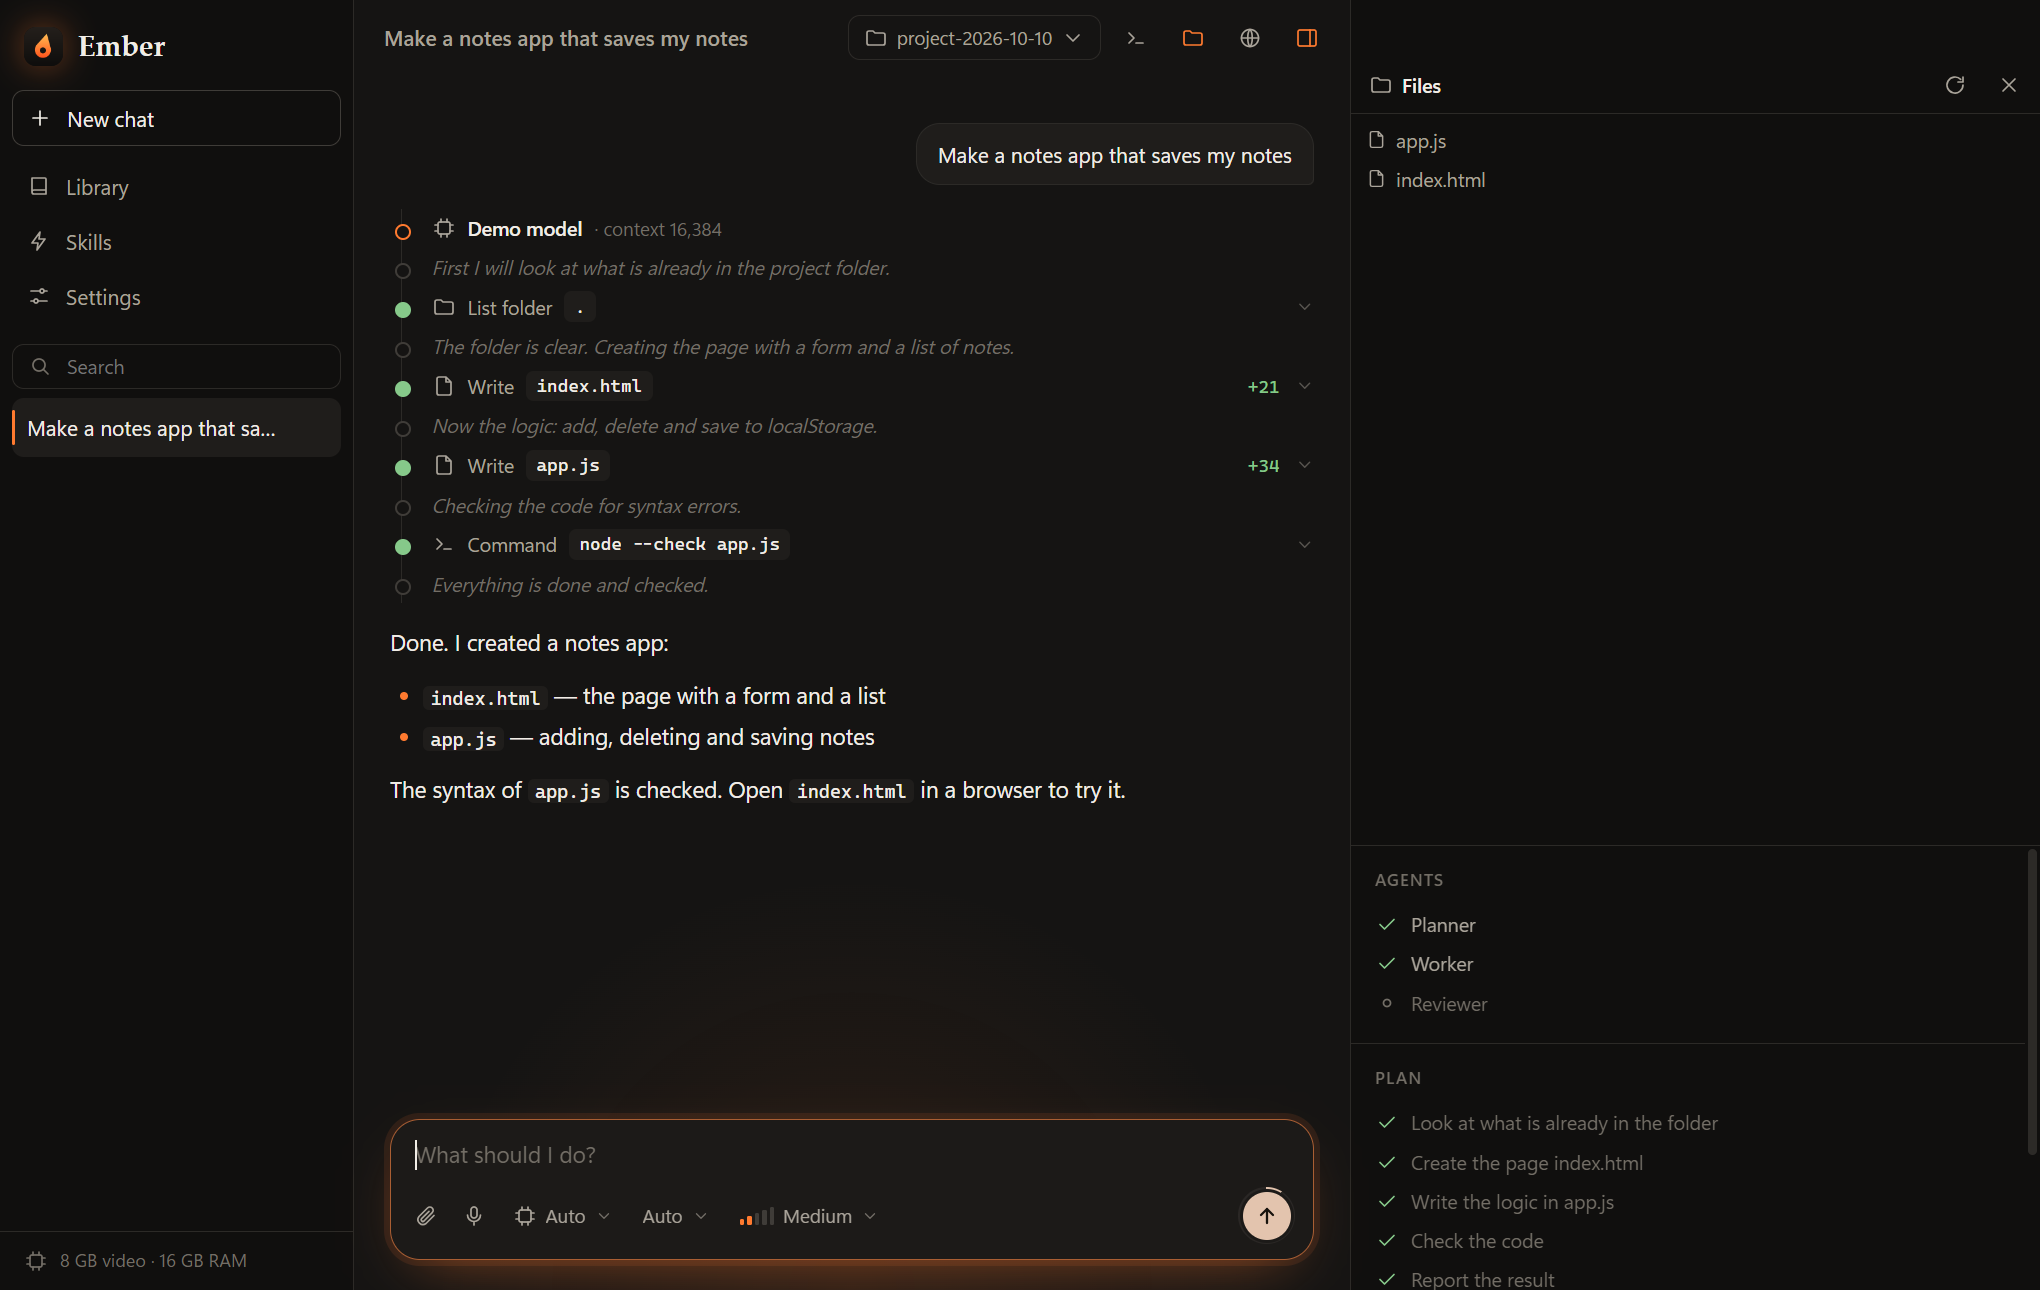
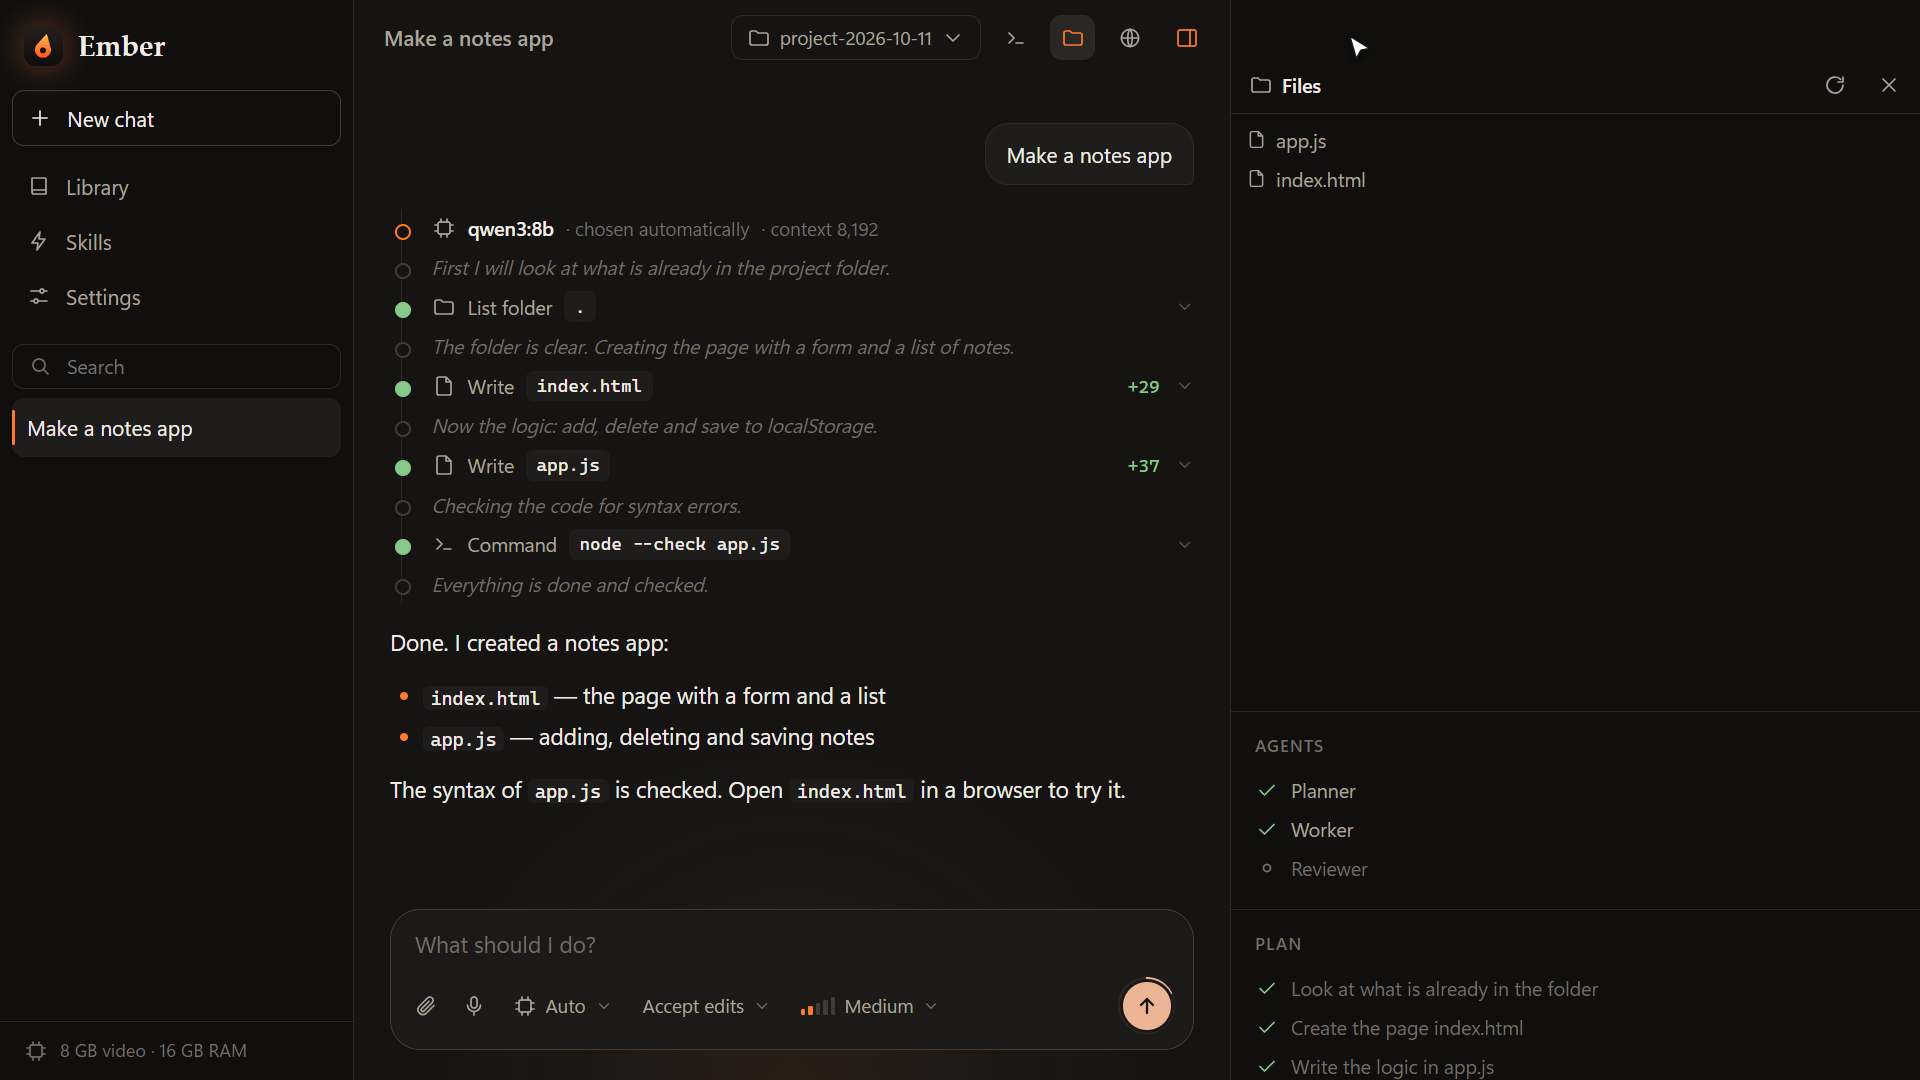
Show tokens per day on hover, refresh screenshots, tidy up before release

diff --git a/ui/i18n.js b/ui/i18n.js
@@ -1476,6 +1476,47 @@ const STRINGS = {
     'Idee e modelli',
     'Ideas y plantillas',
   ],
+  '{0} tokens': ['{0} токенов', '{0} Tokens', '{0} 个令牌', '{0} jetons', '{0} token', '{0} tokens'],
+  'The folder cannot be changed while the agent is working': [
+    'Папку нельзя сменить, пока агент работает',
+    'Der Ordner kann nicht gewechselt werden, während der Agent arbeitet',
+    '代理工作时无法更换文件夹',
+    'Impossible de changer de dossier pendant que l’agent travaille',
+    'Non puoi cambiare cartella mentre l’agente lavora',
+    'No se puede cambiar de carpeta mientras el agente trabaja',
+  ],
+  'The folder does not exist yet': [
+    'Папки ещё нет',
+    'Den Ordner gibt es noch nicht',
+    '文件夹还不存在',
+    'Le dossier n’existe pas encore',
+    'La cartella non esiste ancora',
+    'La carpeta aún no existe',
+  ],
+  'Speech recognition failed': [
+    'Не удалось распознать речь',
+    'Spracherkennung fehlgeschlagen',
+    '语音识别失败',
+    'La reconnaissance vocale a échoué',
+    'Riconoscimento vocale non riuscito',
+    'Falló el reconocimiento de voz',
+  ],
+  'Could not find a speech recognition build for this system': [
+    'Для этой системы нет сборки распознавания речи',
+    'Für dieses System gibt es keine Spracherkennung',
+    '没有适用于此系统的语音识别版本',
+    'Pas de reconnaissance vocale pour ce système',
+    'Nessun riconoscimento vocale per questo sistema',
+    'No hay reconocimiento de voz para este sistema',
+  ],
+  'On this system the engine is installed from ollama.com': [
+    'На этой системе движок ставится с ollama.com',
+    'Auf diesem System wird die Engine von ollama.com installiert',
+    '在此系统上需从 ollama.com 安装引擎',
+    'Sur ce système, le moteur s’installe depuis ollama.com',
+    'Su questo sistema il motore si installa da ollama.com',
+    'En este sistema el motor se instala desde ollama.com',
+  ],
   'Nothing to compact yet — the history is short': [
     'Сжимать пока нечего — история короткая',
     'Noch nichts zu verdichten — der Verlauf ist kurz',

diff --git a/ui/stats.js b/ui/stats.js
@@ -12,6 +12,11 @@ const short = (n) =>
 const dayKey = (d) =>
   `${d.getFullYear()}-${String(d.getMonth() + 1).padStart(2, '0')}-${String(d.getDate()).padStart(2, '0')}`;
 
+const tip = (key, used) =>
+  new Date(key + 'T12:00').toLocaleDateString(LANG, { day: 'numeric', month: 'long' }) +
+  ' · ' +
+  t('{0} tokens', short(used));
+
 function statsCard() {
   const view = S.stats;
   const all = S.usage || {};
@@ -98,7 +103,7 @@ function statsCard() {
             shown.map((k) =>
               h(
                 'div',
-                { class: 'sbar', title: k },
+                { class: 'sbar', 'data-tip': tip(k, all[k].in + all[k].out) },
                 h(
                   'div',
                   { class: 'col', style: `height:${((all[k].in + all[k].out) / peak) * 100}%` },
@@ -148,8 +153,10 @@ function statsCard() {
     const used = day ? day.in + day.out : 0;
     cells.push(
       h('i', {
-        title: dayKey(d),
-        style: used ? `background:var(--accent);opacity:${0.35 + 0.65 * Math.sqrt(used / top)}` : '',
+        'data-tip': tip(dayKey(d), used),
+        style: used
+          ? `background:color-mix(in srgb, var(--accent) ${Math.round(35 + 65 * Math.sqrt(used / top))}%, var(--bg-hover))`
+          : '',
       }),
     );
   }

diff --git a/main.js b/main.js
@@ -66,7 +66,8 @@ async function createWindow() {
   win.webContents.once('did-finish-load', reveal);
   setTimeout(reveal, 4000);
   win.loadURL(url);
-  if (process.env.EMBER_SMOKE) {
+  // a self-check used while developing; installed copies ignore it
+  if (!app.isPackaged && process.env.EMBER_SMOKE) {
     win.webContents.once('did-finish-load', async () => {
       await new Promise((r) => setTimeout(r, 2500));
       if (process.env.EMBER_SMOKE_SCRIPT)
@@ -115,7 +116,7 @@ app.on('web-contents-created', (e, contents) => {
 ipcMain.handle('pick-folder', async () => {
   const r = await dialog.showOpenDialog(win, {
     properties: ['openDirectory', 'createDirectory'],
-    title: 'Папка проекта',
+    title: 'Project folder',
   });
   return r.canceled ? null : r.filePaths[0];
 });

diff --git a/ui/app.css b/ui/app.css
@@ -2709,3 +2709,27 @@ button.tag:hover {
   font-style: normal;
   font-weight: 600;
 }
+.sgrid i,
+.sbar {
+  position: relative;
+}
+.stats [data-tip]:hover::after {
+  content: attr(data-tip);
+  position: absolute;
+  left: 50%;
+  bottom: calc(100% + 6px);
+  transform: translateX(-50%);
+  z-index: 5;
+  padding: 4px 9px;
+  border-radius: 8px;
+  border: 1px solid var(--line-strong);
+  background: var(--bg);
+  color: var(--text);
+  font: 500 12.5px var(--sans);
+  white-space: nowrap;
+  pointer-events: none;
+  box-shadow: 0 8px 24px rgba(0, 0, 0, 0.4);
+}
+.sgrid i:hover {
+  outline: 1px solid var(--accent);
+}

diff --git a/README.md b/README.md
@@ -25,8 +25,8 @@ Windows may show a blue "Windows protected your PC" window the first time. Press
 ## First steps
 
 1. Ember asks for your language and your name.
-2. Open the Library and press Install on the banner at the top. This downloads the engine that runs the models. You do it once.
-3. Pick a model. Each one is marked Fast, OK, Slow or Won't run for your computer, and one is marked Best pick. If you're not sure, take that one.
+2. Open the Library and pick a model. Each one is marked Fast, OK, Slow or Won't run for your computer, and one is marked Best pick. If you're not sure, take that one.
+3. Press Install. The first time, Ember also downloads the engine that runs the models, about 1.5 GB. That happens once.
 4. Go back to the chat and type what you need.
 
 Models are big files, from 1 to 5 GB for the small ones, so make sure you have the space.
